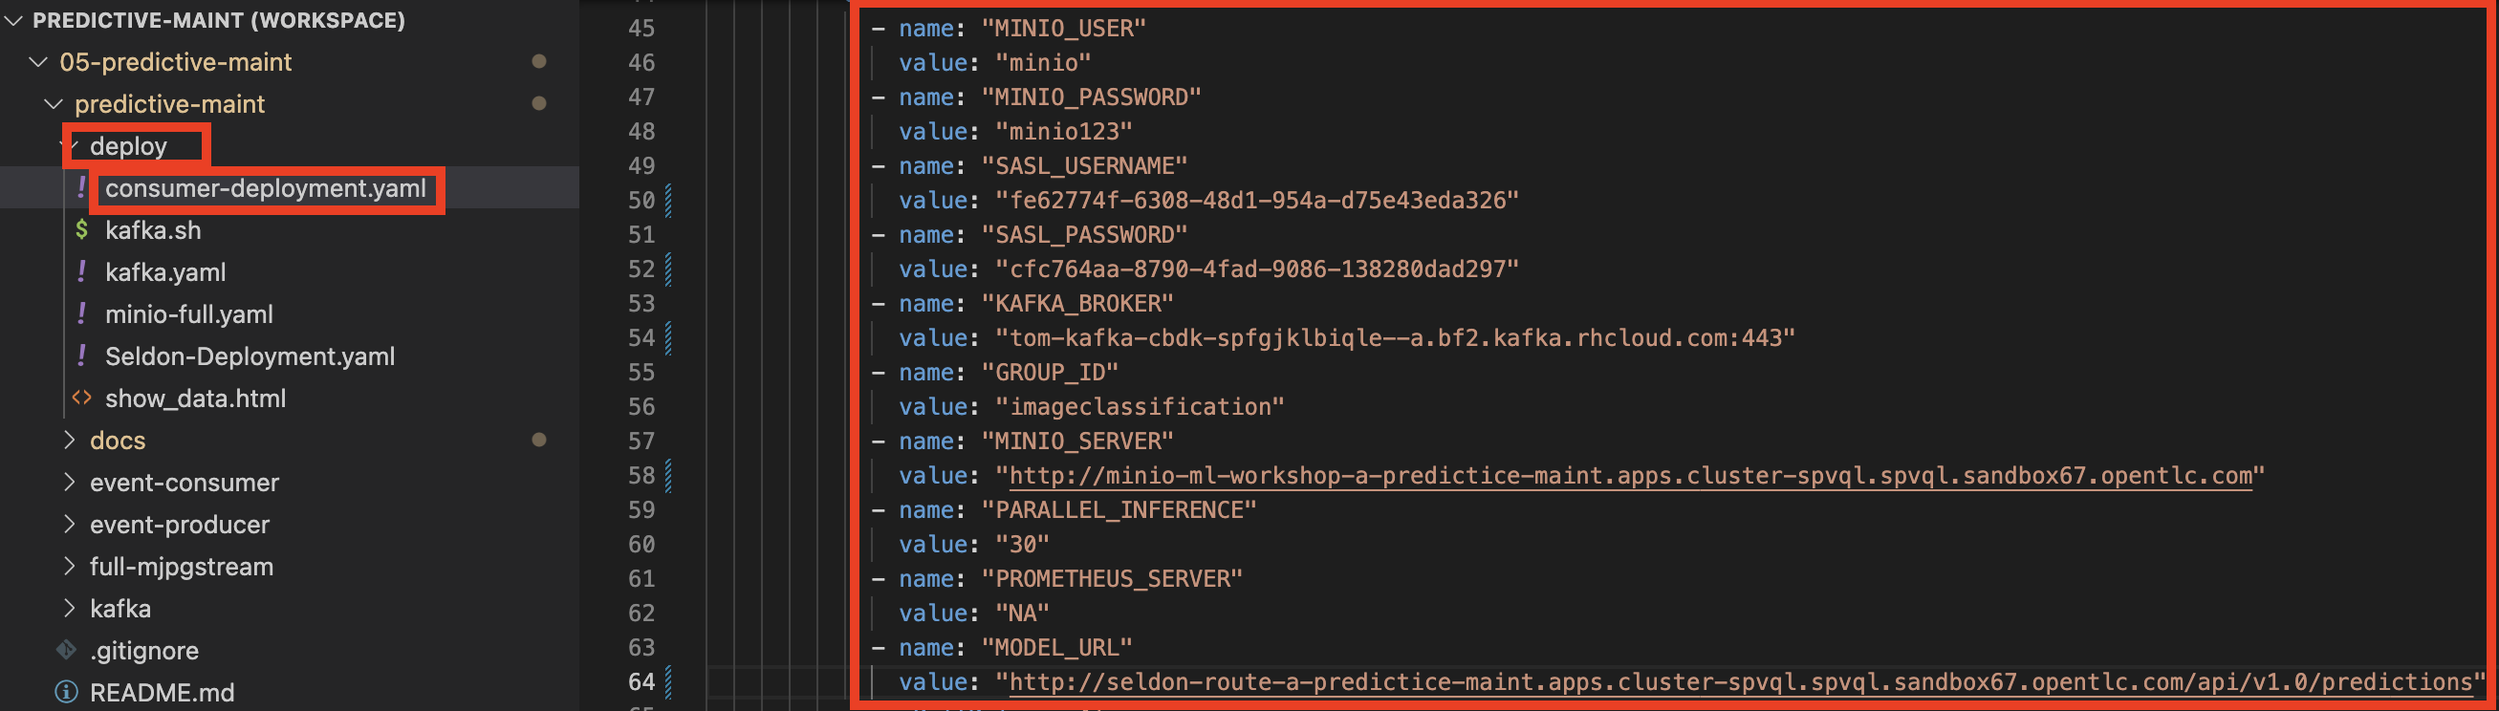
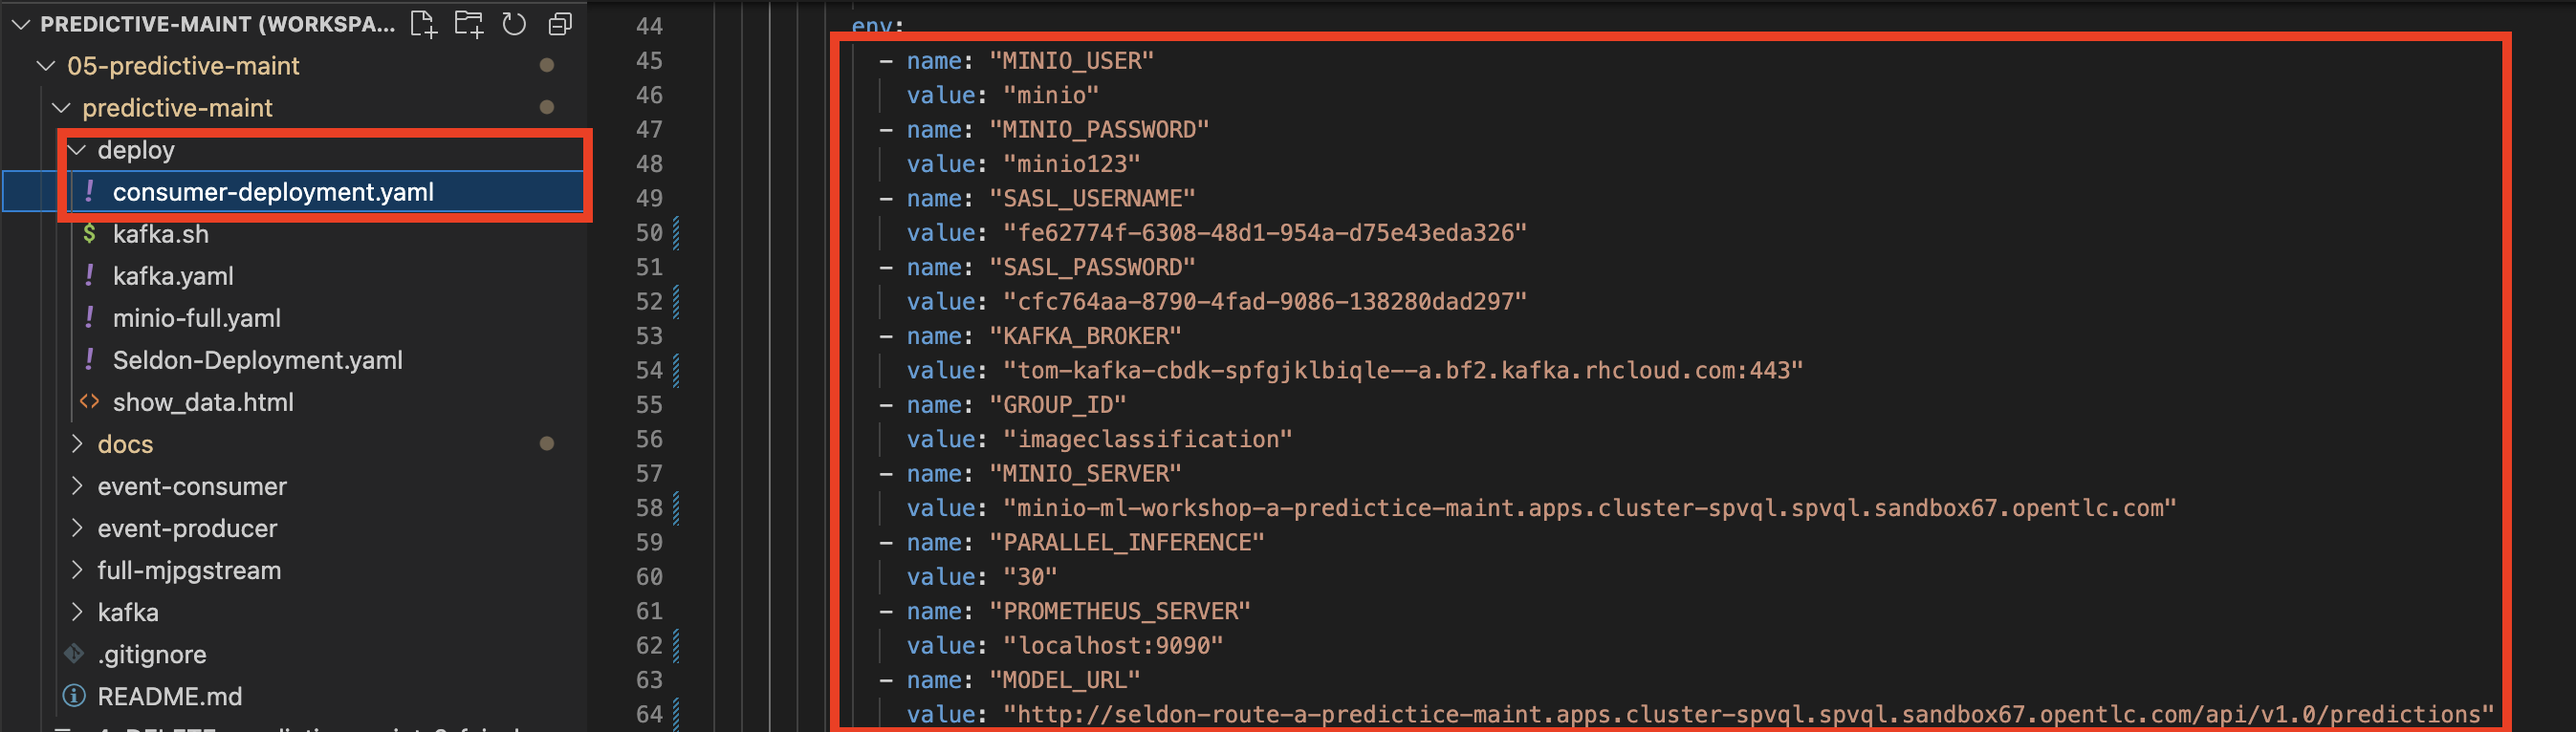
Small docs update

Changed region(s): [[0.0, 0.0, 1.0, 1.0], [0.0, 0.371, 0.1549, 1.0], [0.1859, 0.5874, 0.2169, 0.6183]]

diff --git a/docs/setup.md b/docs/setup.md
@@ -187,11 +187,11 @@ The Seldon operator is required to expose the model behind a RESTful API.
 ![images/2-setup/image34.png](images/2-setup/image34.png)
 
 6. We'll need 2 URLs from these 
-   - MINIO_API_URL - which is your *Minio API Route* from the previous step
+   - MINIO_API_URL - which is your *Minio API Route* from the previous step - ***WITHOUT*** the HTTPS protocol
    - SELDON_INFERENCE_URL - which is the path ***"/api/v1.0/predictions"*** appended to your Seldon Route from the previous step. In my case
    ```
    YOUR_MINIO_API_URL
-   http://minio-ml-workshop-a-predictice-maint.apps.cluster-spvql.spvql.sandbox67.opentlc.com
+   minio-ml-workshop-a-predictice-maint.apps.cluster-spvql.spvql.sandbox67.opentlc.com
    ```
    ```
    YOUR_SELDON_INFERENCE_URL
@@ -232,7 +232,7 @@ SASL_USERNAME="fe62774f-6308-48d1-954a-d75e43eda326"
 SASL_PASSWORD="cfc764aa-8790-4fad-9086-138280dad297"
 KAFKA_BROKER="tom-kafka-cbdk-spfgjklbiqle--a.bf2.kafka.rhcloud.com:443"
 GROUP_ID="imageclassification"
-MINIO_SERVER="http://minio-ml-workshop-a-predictice-maint.apps.cluster-spvql.spvql.sandbox67.opentlc.com"
+MINIO_SERVER="minio-ml-workshop-a-predictice-maint.apps.cluster-spvql.spvql.sandbox67.opentlc.com"
 PARALLEL_INFERENCE=30
 PROMETHEUS_SERVER=localhost:9090
 MODEL_URL="http://seldon-route-a-predictice-maint.apps.cluster-spvql.spvql.sandbox67.opentlc.com/api/v1.0/predictions"
